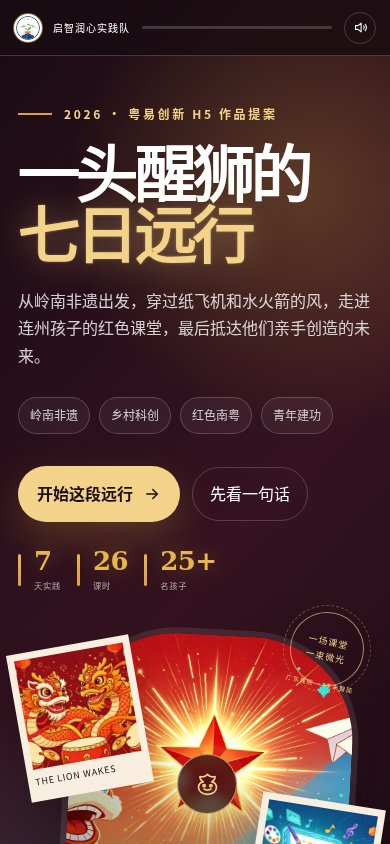
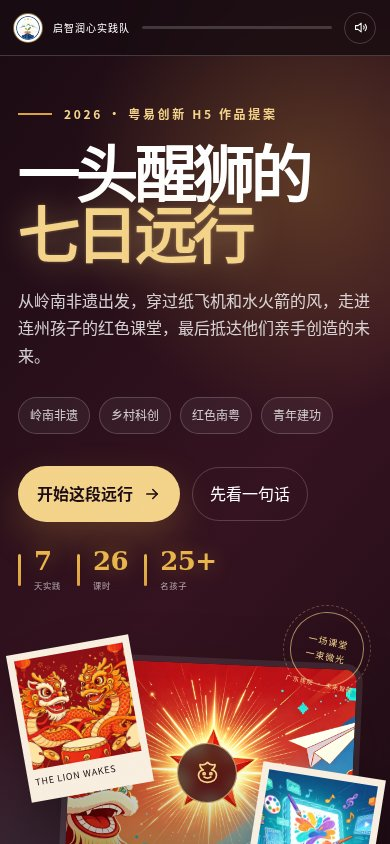
style: hero main-shot 改为横向(landscape)圆角矩形，去掉竖向拱形

Changed region(s): [[0.1538, 0.7393, 1.0, 1.0]]

diff --git a/index.html b/index.html
@@ -120,8 +120,8 @@
     .hero-meta b{display:block;color:var(--brand-gold);font-family:Georgia,serif;font-size:clamp(30px,3vw,40px);line-height:1;letter-spacing:-.02em;text-shadow:0 0 20px rgba(232,182,76,.35)}
     .hero-meta small{display:block;margin-top:4px;letter-spacing:.08em}
 
-    .hero-collage{position:relative;min-height:590px}
-    .hero-collage .main-shot{position:absolute;inset:24px 20px 40px 70px;overflow:hidden;border:9px solid rgba(255,255,255,.09);border-radius:160px 160px 28px 28px;box-shadow:var(--shadow);transform:rotate(3deg)}
+    .hero-collage{position:relative;min-height:540px}
+    .hero-collage .main-shot{position:absolute;inset:78px 18px 38px 66px;overflow:hidden;border:8px solid rgba(255,255,255,.09);border-radius:26px;box-shadow:var(--shadow);transform:rotate(2.5deg)}
     .main-shot img{width:100%;height:100%;object-fit:cover;filter:saturate(.86) contrast(1.06) brightness(1.04)}
     .main-shot::after{content:"";position:absolute;inset:0;background:linear-gradient(180deg,transparent 48%,rgba(24,7,15,.7))}
     .hero-caption{position:absolute;left:106px;right:44px;bottom:74px;z-index:2;display:flex;justify-content:space-between;align-items:end;color:#fff}
@@ -312,8 +312,8 @@
 
     @media (max-width:900px){
       .hero-inner{grid-template-columns:1fr;gap:34px}
-      .hero-collage{min-height:460px}
-      .hero-collage .main-shot{inset:12px 12px 28px 54px}
+      .hero-collage{min-height:430px}
+      .hero-collage .main-shot{inset:56px 12px 26px 54px;border-radius:22px}
       .hero-caption{left:86px;right:30px;bottom:56px}
       .hero-meta{margin-top:26px}
       .stage-content,.stage-content.flip{grid-template-columns:1fr;gap:28px}
@@ -330,8 +330,8 @@
       .hero-inner{gap:22px}
       .hero h1{font-size:clamp(56px,16vw,88px)}
       .hero-lead{font-size:16px}
-      .hero-collage{min-height:360px}
-      .hero-collage .main-shot{inset:15px 16px 30px 45px;border-width:6px;border-radius:110px 110px 22px 22px}
+      .hero-collage{min-height:330px}
+      .hero-collage .main-shot{inset:44px 14px 26px 44px;border-width:6px;border-radius:18px}
       .polaroid{width:124px;padding:7px 7px 12px}.polaroid small{font-size:9px;margin-top:5px}.polaroid.one{top:30px}.polaroid.two{right:-3px;bottom:24px}
       .seal-orbit{right:8px;top:-2px;width:74px;height:74px;font-size:9px}.seal-orbit::after{inset:-8px;font-size:6px}
       .lion-wrap{left:45%;top:39%;width:60px;height:60px}
